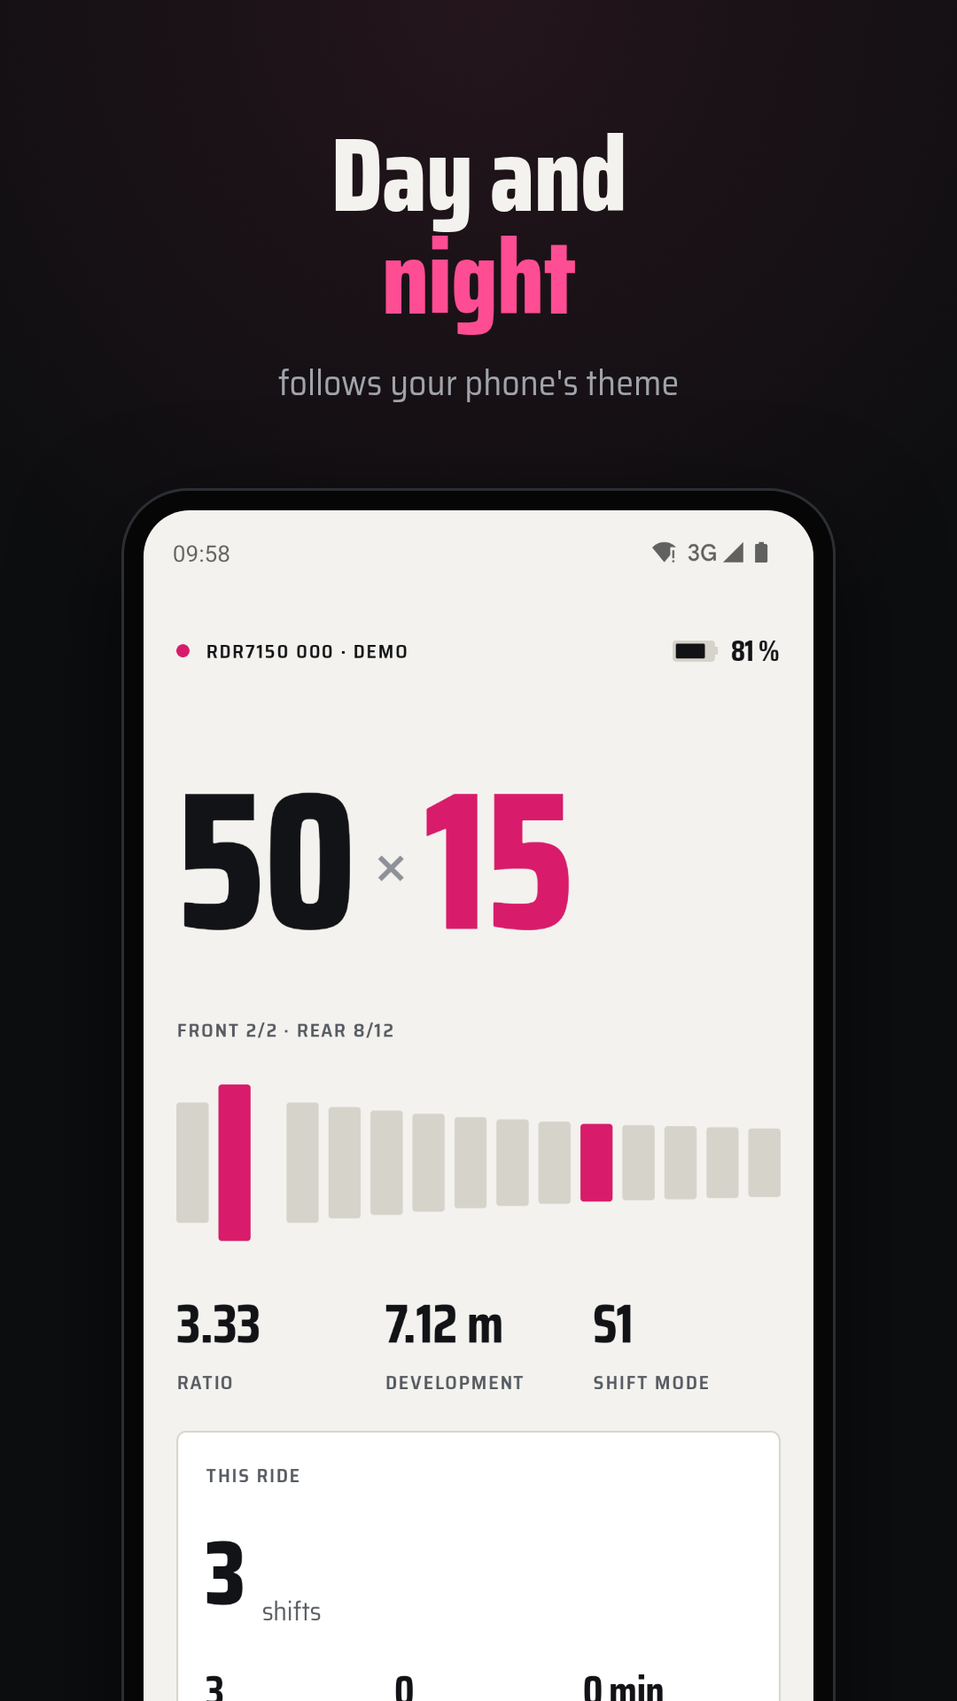
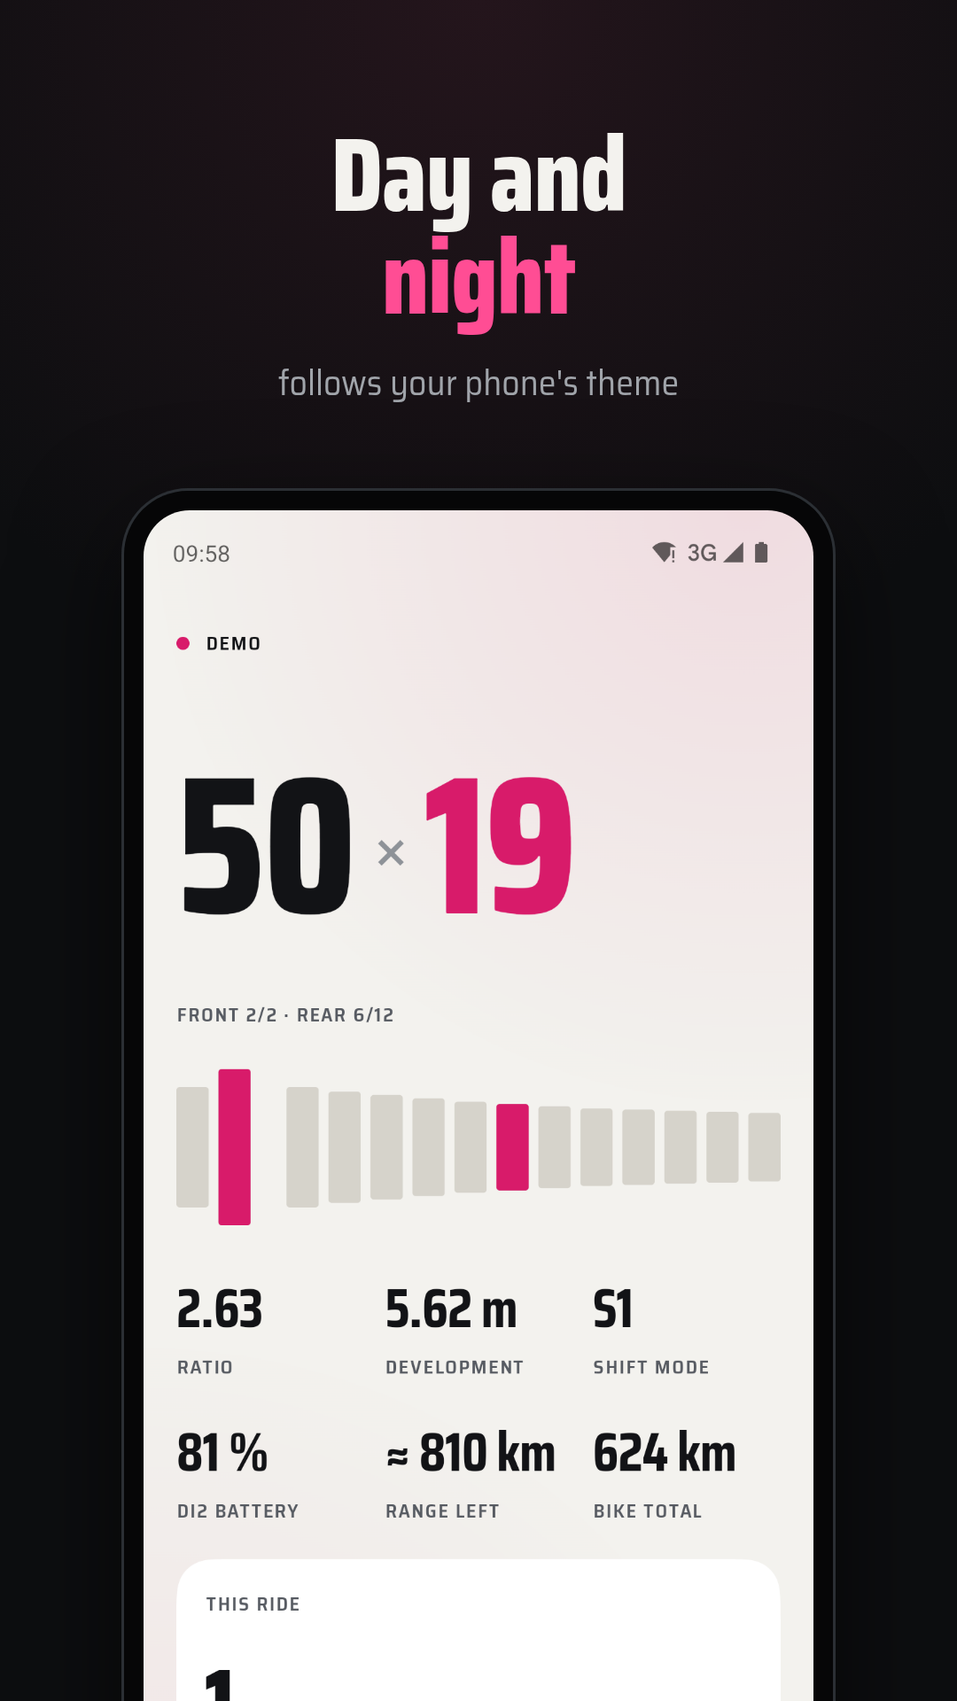
Repo and website catch up with 0.6: new screenshots, range, GPS, pairing
- 16 app screenshots (EN/DE, dark/light) and the README/social images
  re-rendered from demo mode in the 0.6 design: glass tab bar, range,
  distance, setup.
- Website EN/DE: battery range, GPS distance (only the distance is
  stored), pairing so a second bike of the same model stays untouched,
  several bikes, first-start setup; new FAQ entries; version 0.6.3.
- README: install steps follow the setup, header and image texts updated.

diff --git a/docs/de/index.html b/docs/de/index.html
@@ -4,14 +4,14 @@
 <meta charset="utf-8">
 <meta name="viewport" content="width=device-width, initial-scale=1">
 <title>Freehub: Shimano-Di2-App für Android ohne Konto</title>
-<meta name="description" content="Open-Source-App für 12-fach Shimano Di2: aktueller Gang, Akku und Schaltvorgänge live vom Schaltwerk. Ohne SHIMANO ID, ohne Cloud, ohne Tracking.">
+<meta name="description" content="Open-Source-App für 12-fach Shimano Di2: Gang, Akku-Reichweite, Kilometer und Schaltvorgänge live vom Schaltwerk. Ohne SHIMANO ID, ohne Cloud, ohne Tracking.">
 <link rel="canonical" href="https://brickystudios.github.io/freehub/de/">
 <link rel="alternate" hreflang="en" href="https://brickystudios.github.io/freehub/">
 <link rel="alternate" hreflang="de" href="https://brickystudios.github.io/freehub/de/">
 <link rel="alternate" hreflang="x-default" href="https://brickystudios.github.io/freehub/">
 <meta property="og:type" content="website">
 <meta property="og:title" content="Freehub: Shimano-Di2-App ohne Konto">
-<meta property="og:description" content="Gang, Akku und Schaltvorgänge für 12-fach Di2, live auf Android. Ohne Konto.">
+<meta property="og:description" content="Gang, Akku, Reichweite und Schaltvorgänge für 12-fach Di2, live auf Android. Ohne Konto.">
 <meta property="og:url" content="https://brickystudios.github.io/freehub/de/">
 <meta property="og:image" content="https://brickystudios.github.io/freehub/bilder/social-preview.png">
 <meta name="twitter:card" content="summary_large_image">
@@ -20,10 +20,12 @@
 <link rel="stylesheet" href="../style.css">
 <script type="application/ld+json">
 {"@context":"https://schema.org","@graph":[
-{"@type":"SoftwareApplication","name":"Freehub","operatingSystem":"Android 8.0 oder neuer","applicationCategory":"SportsApplication","softwareVersion":"0.1.0","license":"https://www.gnu.org/licenses/gpl-3.0.html","downloadUrl":"https://github.com/BrickyStudios/freehub/releases/latest/download/Freehub.apk","url":"https://brickystudios.github.io/freehub/de/","screenshot":"https://brickystudios.github.io/freehub/bilder/app/live-de-dark.png","description":"Aktueller Gang, Akku und Schaltvorgänge live vom Schaltwerk einer 12-fach Shimano Di2, per Bluetooth und ohne SHIMANO ID.","offers":{"@type":"Offer","price":"0","priceCurrency":"EUR"}},
+{"@type":"SoftwareApplication","name":"Freehub","operatingSystem":"Android 8.0 oder neuer","applicationCategory":"SportsApplication","softwareVersion":"0.6.3","license":"https://www.gnu.org/licenses/gpl-3.0.html","downloadUrl":"https://github.com/BrickyStudios/freehub/releases/latest/download/Freehub.apk","url":"https://brickystudios.github.io/freehub/de/","screenshot":"https://brickystudios.github.io/freehub/bilder/app/live-de-dark.png","description":"Gang, Akku-Reichweite, Kilometer und Schaltvorgänge live vom Schaltwerk einer 12-fach Shimano Di2, per Bluetooth und ohne SHIMANO ID.","offers":{"@type":"Offer","price":"0","priceCurrency":"EUR"}},
 {"@type":"FAQPage","mainEntity":[
 {"@type":"Question","name":"Brauche ich E-TUBE PROJECT oder eine SHIMANO ID?","acceptedAnswer":{"@type":"Answer","text":"Nein. Freehub liest den Bluetooth-Dienst, den auch Radcomputer nutzen. Du meldest dich nirgends an."}},
-{"@type":"Question","name":"Kann Freehub meine Schalteinstellungen ändern?","acceptedAnswer":{"@type":"Answer","text":"Noch nicht. Version 0.1 liest nur. Synchro-Tabellen oder Tastenbelegung zu ändern braucht Shimanos Anmeldeverfahren und mehr Tests an echten Rädern."}},
+{"@type":"Question","name":"Kann Freehub meine Schalteinstellungen ändern?","acceptedAnswer":{"@type":"Answer","text":"Nein. Freehub liest nur und ändert weder Einstellungen noch Firmware."}},
+{"@type":"Question","name":"Können zwei Leute mit dem gleichen Rad es nutzen?","acceptedAnswer":{"@type":"Answer","text":"Ja. Jedes Handy koppelt einmal sein eigenes Schaltwerk und verbindet sich nur damit. Die Nummer hinter dem Modell, etwa RD-R7150 · 123, unterscheidet zwei Schaltwerke."}},
+{"@type":"Question","name":"Verfolgt Freehub, wo ich fahre?","acceptedAnswer":{"@type":"Answer","text":"Nein. GPS läuft nur, solange eine Fahrt gezählt wird, und Freehub speichert nur die Strecke."}},
 {"@type":"Question","name":"Geht es mit 11-fach Di2?","acceptedAnswer":{"@type":"Answer","text":"Nicht getestet. 11-fach Di2 braucht Shimanos separate Funkeinheit EW-WU111."}},
 {"@type":"Question","name":"Woher kommt das Protokoll?","acceptedAnswer":{"@type":"Answer","text":"Von einem echten RD-R7150 und daraus, wie Shimanos eigene Apps es lesen. PROTOCOL.md im Repository beschreibt jedes Byte."}}
 ]}
@@ -48,22 +50,23 @@
   <section class="container hero">
     <div>
       <h1>Dein Di2, auf einen Blick.</h1>
-      <p class="lead">Gang, Akku und jeder Schaltvorgang deiner 12-fach Shimano Di2. Ohne Konto.</p>
+      <p class="lead">Gang, Akku, Reichweite und jeder Schaltvorgang deiner 12-fach Shimano Di2. Ohne Konto.</p>
       <div class="actions">
         <a class="button" href="https://github.com/BrickyStudios/freehub/releases/latest/download/Freehub.apk">APK herunterladen</a>
         <a class="button quiet" href="https://github.com/BrickyStudios/freehub">Quellcode auf GitHub</a>
       </div>
       <p class="note">Android 8 oder neuer. Kostenlos und quelloffen unter GPL-3.0.</p>
     </div>
-    <img class="screen" src="../bilder/app/live-de-dark.png" width="1080" height="2400" alt="Freehub zeigt den Gang 50 × 15, die Kassette mit dem aktuellen Ritzel in Rosa, Übersetzung 3,33 und Schaltmodus S1">
+    <img class="screen" src="../bilder/app/live-de-dark.png" width="1080" height="2400" alt="Freehub zeigt den Gang 50 × 19, die Kassette mit dem aktuellen Ritzel in Rosa, Akku 81 %, noch etwa 810 km Reichweite und 624 km auf dem Rad">
   </section>
 
   <section class="band">
     <div class="container split">
-      <img class="screen" src="../bilder/app/stats-de-dark.png" width="1080" height="2400" loading="lazy" alt="Statistik: Schaltvorgänge in 13 Fahrten, Schräglauf-Anteil, Lieblingsgang 50 × 17 und eine Heatmap aus Kettenblatt und Ritzel">
+      <img class="screen" src="../bilder/app/stats-de-dark.png" width="1080" height="2400" loading="lazy" alt="Statistik: 2.552 Schaltvorgänge in 13 Fahrten, 624 km per GPS, Schräglauf-Anteil, Lieblingsgang 50 × 17 und eine Heatmap aus Kettenblatt und Ritzel">
       <div>
-        <h2>Jeder Gangwechsel, gezählt.</h2>
+        <h2>Jeder Gangwechsel, jeder Kilometer.</h2>
         <p>Ein Multi-Shift über drei Ritzel zählt als drei. Freehub misst, wie lange du in jedem Kettenblatt und Ritzel fährst, und zeichnet daraus eine Heatmap. Gänge mit Schräglauf sind orange umrandet.</p>
+        <p>Die Strecke misst das GPS deines Handys, solange eine Fahrt läuft. Freehub behält die Kilometer, nie die Route.</p>
         <p>Eine Fahrt endet von selbst, zehn Minuten nachdem das Schaltwerk eingeschlafen ist.</p>
       </div>
     </div>
@@ -73,18 +76,21 @@
     <div class="container">
       <h2>Deine Fahrten bleiben auf dem Handy.</h2>
       <div class="facts">
-        <div><h3>Keine Anmeldung</h3><p>Keine SHIMANO ID, überhaupt kein Konto.</p></div>
-        <div><h3>Eine Verbindung</h3><p>Bluetooth zum Schaltwerk, dazu eine abschaltbare Update-Prüfung bei GitHub.</p></div>
-        <div><h3>Nur lesen</h3><p>Freehub schreibt weder Einstellungen noch Firmware.</p></div>
+        <div><h3>Keine Anmeldung</h3><p>Keine SHIMANO ID, überhaupt kein Konto. Online geht nur eine Update-Prüfung bei GitHub, und die lässt sich abschalten.</p></div>
+        <div><h3>GPS nur bei der Fahrt</h3><p>Freehub speichert nur die Strecke, keine Orte.</p></div>
+        <div><h3>Nur lesen</h3><p>Freehub ändert weder Einstellungen noch Firmware.</p></div>
       </div>
     </div>
   </section>
 
   <section class="band">
     <div class="container split">
-      <img class="screen" src="../bilder/app/bike-de-dark.png" width="1080" height="2400" loading="lazy" alt="Reiter Rad: RD-R7150, Akku, Firmware 4.2.1, Kurbel 50/34, Kassette 11 bis 34">
+      <img class="screen" src="../bilder/app/bike-de-dark.png" width="1080" height="2400" loading="lazy" alt="Reiter Rad: Akku 81 %, noch etwa 810 km Reichweite, Firmware 4.2.1, Kurbel 50/34, Kassette 11 bis 34">
       <div>
-        <h2>Läuft mit 12-fach Di2.</h2>
+        <h2>Nur dein Rad.</h2>
+        <p>Du koppelst dein Schaltwerk einmal. Danach verbindet sich Freehub nur noch damit, das gleiche Rad daneben bleibt unberührt. Mehrere Räder behalten jeweils ihre eigenen Fahrten, Kilometer und den Akku-Verlauf.</p>
+        <p>Der Akku zeigt, wie weit er noch reicht, gelernt aus deinen eigenen Kilometern. Beim ersten Start führt eine kurze Einrichtung durch Bluetooth, Koppeln, Kurbel, Auto-Start und GPS.</p>
+        <h3>Läuft mit 12-fach Di2</h3>
         <table>
           <thead><tr><th scope="col">Gruppe</th><th scope="col">Schaltwerk</th><th scope="col">Status</th></tr></thead>
           <tbody>
@@ -103,7 +109,9 @@
       <h2>Fragen</h2>
       <div class="faq">
         <details><summary>Brauche ich E-TUBE PROJECT oder eine SHIMANO ID?</summary><p>Nein. Freehub liest den Bluetooth-Dienst, den auch Radcomputer nutzen.</p></details>
-        <details><summary>Kann es meine Schalteinstellungen ändern?</summary><p>Noch nicht. Version 0.1 liest nur.</p></details>
+        <details><summary>Kann es meine Schalteinstellungen ändern?</summary><p>Nein. Freehub liest nur.</p></details>
+        <details><summary>Können zwei Leute mit dem gleichen Rad es nutzen?</summary><p>Ja. Jedes Handy koppelt einmal sein eigenes Schaltwerk und verbindet sich nur damit. Die Nummer hinter dem Modell, etwa RD-R7150 · 123, unterscheidet zwei Schaltwerke.</p></details>
+        <details><summary>Verfolgt Freehub, wo ich fahre?</summary><p>Nein. GPS läuft nur, solange eine Fahrt gezählt wird, und Freehub speichert nur die Strecke.</p></details>
         <details><summary>Geht es mit 11-fach Di2?</summary><p>Nicht getestet. 11-fach braucht Shimanos Funkeinheit EW-WU111.</p></details>
         <details><summary>Woher kommt das Protokoll?</summary><p>Von einem echten RD-R7150, Byte für Byte beschrieben in <a href="https://github.com/BrickyStudios/freehub/blob/main/PROTOCOL.md">PROTOCOL.md</a>.</p></details>
       </div>

diff --git a/docs/index.html b/docs/index.html
@@ -4,14 +4,14 @@
 <meta charset="utf-8">
 <meta name="viewport" content="width=device-width, initial-scale=1">
 <title>Freehub: Shimano Di2 app for Android, no account</title>
-<meta name="description" content="Open-source Android app for 12-speed Shimano Di2: live gear, battery and shift count from the rear derailleur. No SHIMANO ID, no cloud, no tracking.">
+<meta name="description" content="Open-source Android app for 12-speed Shimano Di2: live gear, battery range, distance and shift count from the rear derailleur. No SHIMANO ID, no cloud, no tracking.">
 <link rel="canonical" href="https://brickystudios.github.io/freehub/">
 <link rel="alternate" hreflang="en" href="https://brickystudios.github.io/freehub/">
 <link rel="alternate" hreflang="de" href="https://brickystudios.github.io/freehub/de/">
 <link rel="alternate" hreflang="x-default" href="https://brickystudios.github.io/freehub/">
 <meta property="og:type" content="website">
 <meta property="og:title" content="Freehub: Shimano Di2 app, no account">
-<meta property="og:description" content="Gear, battery and shift count for 12-speed Di2, read live on Android. No account.">
+<meta property="og:description" content="Gear, battery, range and every shift for 12-speed Di2, read live on Android. No account.">
 <meta property="og:url" content="https://brickystudios.github.io/freehub/">
 <meta property="og:image" content="https://brickystudios.github.io/freehub/bilder/social-preview.png">
 <meta name="twitter:card" content="summary_large_image">
@@ -20,10 +20,12 @@
 <link rel="stylesheet" href="style.css">
 <script type="application/ld+json">
 {"@context":"https://schema.org","@graph":[
-{"@type":"SoftwareApplication","name":"Freehub","operatingSystem":"Android 8.0 or newer","applicationCategory":"SportsApplication","softwareVersion":"0.1.0","license":"https://www.gnu.org/licenses/gpl-3.0.html","downloadUrl":"https://github.com/BrickyStudios/freehub/releases/latest/download/Freehub.apk","url":"https://brickystudios.github.io/freehub/","screenshot":"https://brickystudios.github.io/freehub/bilder/app/live-en-dark.png","description":"Live gear, battery and shift count from a 12-speed Shimano Di2 rear derailleur over Bluetooth, without a SHIMANO ID.","offers":{"@type":"Offer","price":"0","priceCurrency":"EUR"}},
+{"@type":"SoftwareApplication","name":"Freehub","operatingSystem":"Android 8.0 or newer","applicationCategory":"SportsApplication","softwareVersion":"0.6.3","license":"https://www.gnu.org/licenses/gpl-3.0.html","downloadUrl":"https://github.com/BrickyStudios/freehub/releases/latest/download/Freehub.apk","url":"https://brickystudios.github.io/freehub/","screenshot":"https://brickystudios.github.io/freehub/bilder/app/live-en-dark.png","description":"Live gear, battery range, distance and shift count from a 12-speed Shimano Di2 rear derailleur over Bluetooth, without a SHIMANO ID.","offers":{"@type":"Offer","price":"0","priceCurrency":"EUR"}},
 {"@type":"FAQPage","mainEntity":[
 {"@type":"Question","name":"Do I need E-TUBE PROJECT or a SHIMANO ID?","acceptedAnswer":{"@type":"Answer","text":"No. Freehub reads the Bluetooth service that bike computers use. You never sign in."}},
-{"@type":"Question","name":"Can Freehub change my shift settings?","acceptedAnswer":{"@type":"Answer","text":"Not in version 0.1, which only reads. Changing Synchro maps or button functions needs Shimano’s authentication and more testing on real bikes."}},
+{"@type":"Question","name":"Can Freehub change my shift settings?","acceptedAnswer":{"@type":"Answer","text":"No. Freehub reads; it never changes a setting or the firmware."}},
+{"@type":"Question","name":"Can two people with the same bike use it?","acceptedAnswer":{"@type":"Answer","text":"Yes. Each phone pairs its own derailleur once and connects to that one only. The number after the model, like RD-R7150 · 123, tells two derailleurs apart."}},
+{"@type":"Question","name":"Does Freehub track where I ride?","acceptedAnswer":{"@type":"Answer","text":"No. GPS runs only while a ride is counted, and Freehub stores only the distance."}},
 {"@type":"Question","name":"Does it work with 11-speed Di2?","acceptedAnswer":{"@type":"Answer","text":"Untested. 11-speed Di2 needs Shimano’s separate EW-WU111 wireless unit."}},
 {"@type":"Question","name":"Where does the protocol come from?","acceptedAnswer":{"@type":"Answer","text":"From a real RD-R7150 and from how Shimano’s own apps read it. PROTOCOL.md in the repository documents every byte."}}
 ]}
@@ -48,22 +50,23 @@
   <section class="container hero">
     <div>
       <h1>Your Di2, at a glance.</h1>
-      <p class="lead">Gear, battery and every shift from a 12-speed Shimano Di2. No account.</p>
+      <p class="lead">Gear, battery, range and every shift from a 12-speed Shimano Di2. No account.</p>
       <div class="actions">
         <a class="button" href="https://github.com/BrickyStudios/freehub/releases/latest/download/Freehub.apk">Download the APK</a>
         <a class="button quiet" href="https://github.com/BrickyStudios/freehub">Source on GitHub</a>
       </div>
       <p class="note">Android 8 or newer. Free and open source under GPL-3.0.</p>
     </div>
-    <img class="screen" src="bilder/app/live-en-dark.png" width="1080" height="2400" alt="Freehub showing the gear 50 × 15, the cassette with the current cog in pink, ratio 3.33 and shift mode S1">
+    <img class="screen" src="bilder/app/live-en-dark.png" width="1080" height="2400" alt="Freehub showing the gear 50 × 19, the cassette with the current cog in pink, battery 81 %, about 810 km of range left and 624 km on the bike">
   </section>
 
   <section class="band">
     <div class="container split">
-      <img class="screen" src="bilder/app/stats-en-dark.png" width="1080" height="2400" loading="lazy" alt="Statistics: 2,553 shifts in 13 rides, 1 % cross-chained, favourite gear 50 × 17 and a heatmap of chainring and cog">
+      <img class="screen" src="bilder/app/stats-en-dark.png" width="1080" height="2400" loading="lazy" alt="Statistics: 2,552 shifts in 13 rides, 624 km measured by GPS, 1 % cross-chained, favourite gear 50 × 17 and a heatmap of chainring and cog">
       <div>
-        <h2>Every shift, counted.</h2>
+        <h2>Every shift, every kilometre.</h2>
         <p>A multi-shift across three cogs counts as three. Freehub keeps the time you spend in each chainring and cog and draws it as a heatmap, with cross-chained gears outlined in orange.</p>
+        <p>The distance comes from your phone’s GPS while a ride is counted. Freehub keeps the kilometres, never the route.</p>
         <p>A ride ends on its own ten minutes after the derailleur falls asleep.</p>
       </div>
     </div>
@@ -73,18 +76,21 @@
     <div class="container">
       <h2>Your rides stay on your phone.</h2>
       <div class="facts">
-        <div><h3>No sign-in</h3><p>No SHIMANO ID, no account of any kind.</p></div>
-        <div><h3>One connection</h3><p>Bluetooth to the derailleur, plus an update check on GitHub you can switch off.</p></div>
-        <div><h3>Read only</h3><p>Freehub never writes settings or firmware.</p></div>
+        <div><h3>No sign-in</h3><p>No SHIMANO ID, no account of any kind. The only thing online is an update check on GitHub, and you can switch it off.</p></div>
+        <div><h3>GPS only on a ride</h3><p>Freehub stores the distance only, no positions.</p></div>
+        <div><h3>Read only</h3><p>Freehub never changes a setting or the firmware.</p></div>
       </div>
     </div>
   </section>
 
   <section class="band">
     <div class="container split">
-      <img class="screen" src="bilder/app/bike-en-dark.png" width="1080" height="2400" loading="lazy" alt="Bike screen: RD-R7150, battery 81 %, firmware 4.2.1, crankset 50/34, cassette 11 to 34">
+      <img class="screen" src="bilder/app/bike-en-dark.png" width="1080" height="2400" loading="lazy" alt="Bike screen: battery 81 %, about 810 km of range left, firmware 4.2.1, crankset 50/34, cassette 11 to 34">
       <div>
-        <h2>Works with 12-speed Di2.</h2>
+        <h2>Your bike only.</h2>
+        <p>You pair your derailleur once. From then on Freehub connects to that one only, so the same bike leaning next to yours stays untouched. Several bikes each keep their own rides, distance and battery log.</p>
+        <p>The battery shows how far it still goes, learned from your own kilometres. On first start a short setup walks through Bluetooth, pairing, crankset, auto start and GPS.</p>
+        <h3>Works with 12-speed Di2</h3>
         <table>
           <thead><tr><th scope="col">Group</th><th scope="col">Rear derailleur</th><th scope="col">Status</th></tr></thead>
           <tbody>
@@ -103,7 +109,9 @@
       <h2>Questions</h2>
       <div class="faq">
         <details><summary>Do I need E-TUBE PROJECT or a SHIMANO ID?</summary><p>No. Freehub reads the Bluetooth service bike computers use.</p></details>
-        <details><summary>Can it change my shift settings?</summary><p>Not yet. Version 0.1 only reads.</p></details>
+        <details><summary>Can it change my shift settings?</summary><p>No. Freehub only reads.</p></details>
+        <details><summary>Can two people with the same bike use it?</summary><p>Yes. Each phone pairs its own derailleur once and connects to that one only. The number after the model, like RD-R7150 · 123, tells two derailleurs apart.</p></details>
+        <details><summary>Does Freehub track where I ride?</summary><p>No. GPS runs only while a ride is counted, and Freehub stores only the distance.</p></details>
         <details><summary>Does it work with 11-speed Di2?</summary><p>Untested. 11-speed needs Shimano’s EW-WU111 wireless unit.</p></details>
         <details><summary>Where does the protocol come from?</summary><p>From a real RD-R7150, documented byte by byte in <a href="https://github.com/BrickyStudios/freehub/blob/main/PROTOCOL.md">PROTOCOL.md</a>.</p></details>
       </div>

diff --git a/README.md b/README.md
@@ -1,6 +1,6 @@
 <div align="center">
 
-<img src="docs/bilder/social-preview.png" alt="Freehub shows gear, battery and shift count of a Shimano Di2 rear derailleur on Android" width="100%">
+<img src="docs/bilder/social-preview.png" alt="Freehub shows gear, battery, range and shift count of a Shimano Di2 rear derailleur on Android" width="100%">
 
 # Freehub: Shimano Di2 app for Android without an account
 
@@ -12,13 +12,13 @@
 [![Stars](https://img.shields.io/github/stars/BrickyStudios/freehub?color=FF4D94&labelColor=0D0E10)](https://github.com/BrickyStudios/freehub/stargazers)
 [![License: GPL-3.0](https://img.shields.io/github/license/BrickyStudios/freehub?color=FF4D94&labelColor=0D0E10)](LICENSE)
 
-**Gear, battery and shift count, read live from a 12-speed Shimano Di2 rear derailleur. No SHIMANO ID, no cloud, no tracking.**
+**Gear, battery range, distance and every shift, read live from a 12-speed Shimano Di2 rear derailleur. No SHIMANO ID, no cloud, no tracking.**
 
 </div>
 
 Shimano's E-TUBE PROJECT app asks you to sign in with a SHIMANO ID before it shows anything. Freehub connects to the rear derailleur over Bluetooth, reads what the derailleur already broadcasts to bike computers, and keeps every number on your phone.
 
-| ![Current gear as 50 × 15 with the cassette below](docs/bilder/1-live.png) | ![All-time shift count and a heatmap of gear usage](docs/bilder/2-stats.png) | ![Battery, firmware and drivetrain of the derailleur](docs/bilder/3-bike.png) | ![The live screen in the light theme](docs/bilder/4-light.png) |
+| ![Current gear as 50 × 19 with battery, range left and the bike’s total distance below](docs/bilder/1-live.png) | ![All-time shift count, distance by GPS and a heatmap of gear usage](docs/bilder/2-stats.png) | ![Battery, range left and drivetrain of the bike](docs/bilder/3-bike.png) | ![The live screen in the light theme](docs/bilder/4-light.png) |
 |---|---|---|---|
 
 ## What it shows
@@ -62,7 +62,7 @@ If yours works (or does not), please open an issue with the model name the app s
 
 1. Download [`Freehub.apk`](https://github.com/BrickyStudios/freehub/releases/latest/download/Freehub.apk) from the latest release.
 2. Open it on your phone and allow the install.
-3. Start Freehub, allow Bluetooth, click a shifter once to wake the derailleur.
+3. Start Freehub. A short setup walks through Bluetooth, pairing your bike (click a shifter once to wake the derailleur), crankset and cassette, auto start and GPS.
 
 Android 8.0 or newer, no Google services needed. Updates come through the app (switch it off under Bike → Settings) or through [Obtainium](https://github.com/ImranR98/Obtainium) with this repository's URL.
 
@@ -81,7 +81,7 @@ Freehub only reads. In the developer options it logs in to the E-TUBE service (`
 
 ## Planned
 
-- **0.4:** turn the gear usage history from the derailleur's memory into the statistics, once a capture from a real derailleur confirms the reply format. Then the error log.
+- **Next:** turn the gear usage history from the derailleur's memory into the statistics, once a capture from a real derailleur confirms the reply format. Then the error log.
 - Later: show the shift settings (Synchro map, multi-shift speed, button mapping). Changing them needs Shimano's authentication handshake and more testing on real hardware first.
 
 ## Build
